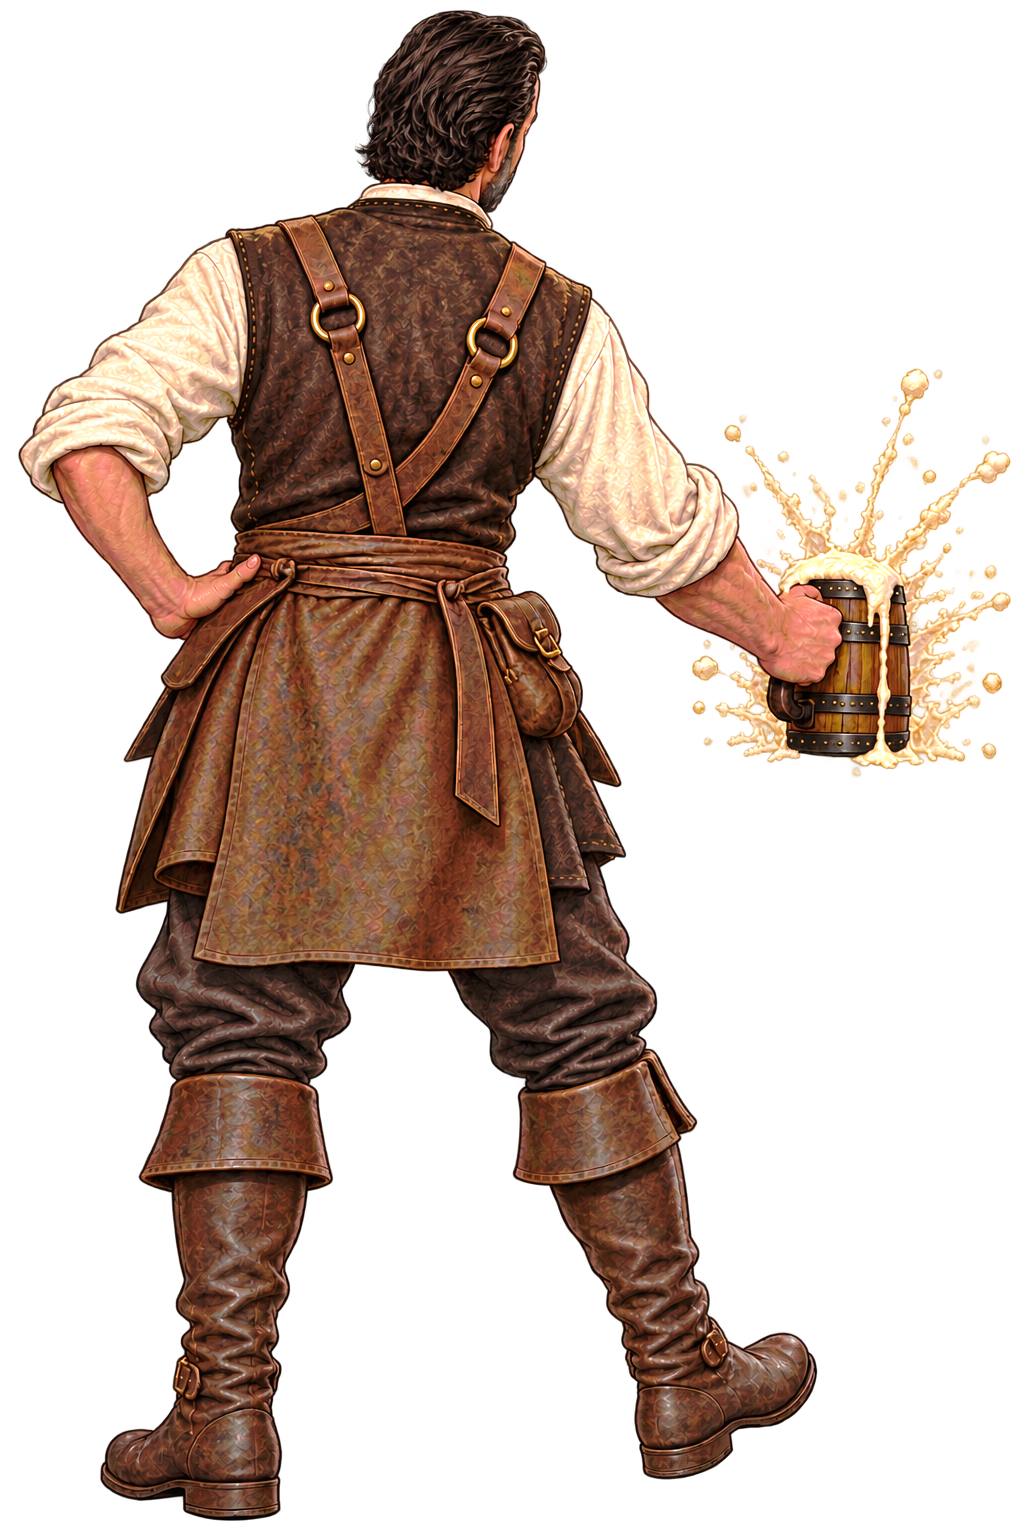
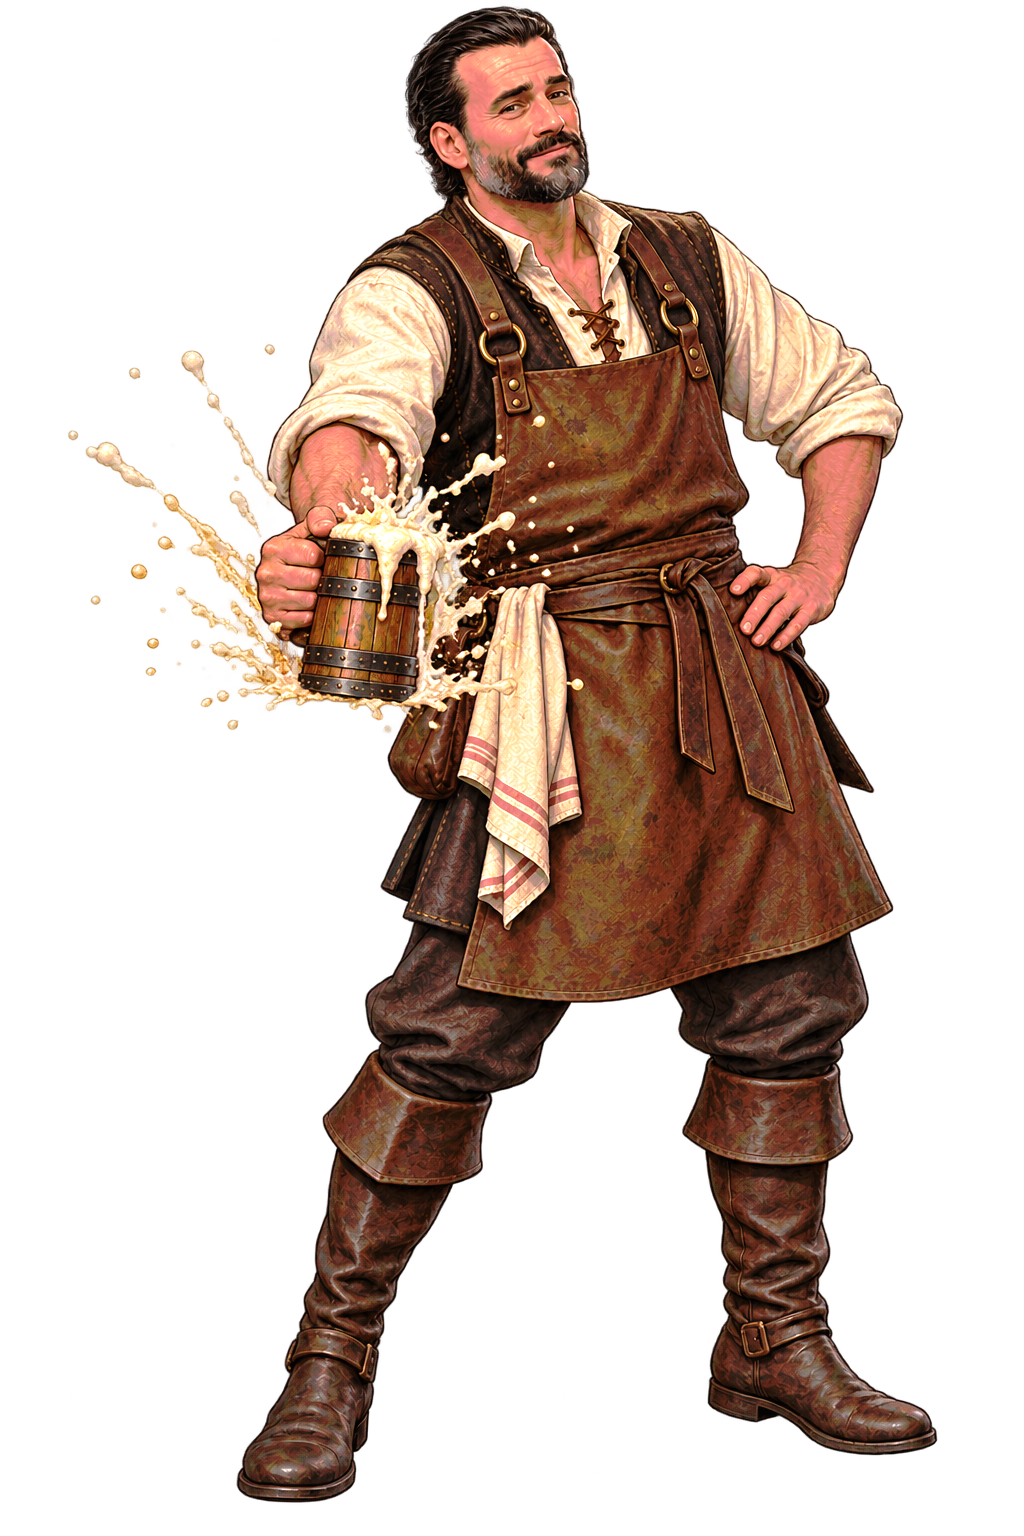
Add files via upload

diff --git a/index.html b/index.html
@@ -1,4 +1,4 @@
 <!doctype html>
 <html lang="de"><head><meta charset="utf-8"><meta name="viewport" content="width=device-width,initial-scale=1,viewport-fit=cover,user-scalable=no"><meta name="theme-color" content="#c9a56b"><title>Schauenburg – Die Burgschenke</title>
-<link rel="preload" as="image" href="assets/maps/terrasse.jpg" fetchpriority="high"><link rel="preload" as="audio" href="assets/audio/arrival-in-ashford.mp3"><link rel="preload" as="audio" href="assets/audio/Door Open Sound.mp3"><link rel="preload" as="image" href="assets/maps/wirtschaft-innen.jpg?v=18" fetchpriority="high"><link rel="preload" as="image" href="assets/npc/frau-run-1.png?v=02"><link rel="preload" as="image" href="assets/npc/frau-run-2.png?v=02"><link rel="preload" as="image" href="assets/npc/baer-run-1.png?v=22"><link rel="preload" as="image" href="assets/npc/baer-run-2.png?v=22"><link rel="preload" as="image" href="assets/npc/baer-run-3.png?v=22"><link rel="preload" as="audio" href="assets/audio/girlyscream_01.mp3"><link rel="preload" as="audio" href="assets/audio/bearattack_1.mp3"><link rel="preload" as="audio" href="assets/audio/bearattack_2.mp3"><link rel="preload" as="audio" href="assets/audio/bearattack_3.mp3"><link rel="preload" as="audio" href="assets/audio/The Hold Steady - The Bear and the Maiden Fair.mp3"><link rel="preload" as="audio" href="assets/audio/Der Bock geht um.mp3"><link rel="preload" as="audio" href="assets/audio/bock-departure.mp3"><link rel="preload" as="audio" href="assets/audio/bock-drink.mp3"><link rel="preload" as="audio" href="assets/audio/bock-burp.mp3"><link rel="preload" as="image" href="assets/npc/bock-reiter-1.png?v=28"><link rel="preload" as="image" href="assets/npc/bock-reiter-2.png?v=28"><link rel="preload" as="image" href="assets/npc/bock-reiter-3.png?v=28"><link rel="preload" as="image" href="assets/npc/bock-stop.png?v=30"><link rel="preload" as="image" href="assets/npc/bock-dismount.png?v=30"><link rel="preload" as="image" href="assets/npc/bock-final.png?v=30"><link rel="preload" as="image" href="assets/npc/bock-wunsch.png?v=38"><link rel="preload" as="image" href="assets/npc/bock-bier.png?v=38"><link rel="preload" as="image" href="assets/npc/bock-trinkt.png?v=38"><link rel="preload" as="image" href="assets/npc/bock-krug-leer.png?v=38"><link rel="preload" as="image" href="assets/player/tisch-w.png?v=46"><link rel="preload" as="image" href="assets/player/tisch-s.png?v=46"><link rel="preload" as="image" href="assets/player/tisch-d.png?v=46"><link rel="preload" as="image" href="assets/player/tisch-a.png?v=46"><link rel="stylesheet" href="style.css?v=12"></head>
-<body><main id="game" aria-label="Schauenburg – Die Burgschenke"><div id="world"><img id="map" src="assets/maps/terrasse.jpg" alt="Terrasse der Burgschenke" draggable="false"><img class="prop no-collision" id="baum" src="assets/props/baum.png?v=03" alt="" draggable="false"><img class="prop collidable" id="wirtschaft" src="assets/props/wirtschaft.png?v=03" alt="" draggable="false" data-collision="alpha"><img class="prop collidable" id="stehtischLinks" src="assets/props/stehtisch.png?v=03" alt="" draggable="false" data-collision="alpha"><img class="prop collidable" id="stehtischMitte" src="assets/props/stehtisch.png?v=03" alt="" draggable="false" data-collision="alpha"><img class="prop collidable" id="stehtischRechts" src="assets/props/stehtisch.png?v=03" alt="" draggable="false" data-collision="alpha"><img class="prop collidable" id="stuhl" src="assets/props/stuhl.png?v=03" alt="" draggable="false" data-collision="alpha"><img class="prop collidable" id="tafel" src="assets/props/tafel.png?v=03" alt="" draggable="false" data-collision="alpha"><img id="player" src="assets/player/front-1.png?v=12" alt="" draggable="false"></div><audio id="bgMusic" src="assets/audio/arrival-in-ashford.mp3" preload="auto" loop></audio><div id="loading">DIE BURGSCHENKE WIRD GEÖFFNET …</div><div id="zoomHint" aria-hidden="true">MAUSRAD · 2 ZOOMSTUFEN</div><div id="irisTransition" aria-hidden="true"></div></main><script src="game.js?v=46"></script></body></html>
+<link rel="preload" as="image" href="assets/maps/terrasse.jpg" fetchpriority="high"><link rel="preload" as="audio" href="assets/audio/arrival-in-ashford.mp3"><link rel="preload" as="audio" href="assets/audio/Door Open Sound.mp3"><link rel="preload" as="image" href="assets/maps/wirtschaft-innen.jpg?v=18" fetchpriority="high"><link rel="preload" as="image" href="assets/npc/frau-run-1.png?v=02"><link rel="preload" as="image" href="assets/npc/frau-run-2.png?v=02"><link rel="preload" as="image" href="assets/npc/baer-run-1.png?v=22"><link rel="preload" as="image" href="assets/npc/baer-run-2.png?v=22"><link rel="preload" as="image" href="assets/npc/baer-run-3.png?v=22"><link rel="preload" as="audio" href="assets/audio/girlyscream_01.mp3"><link rel="preload" as="audio" href="assets/audio/bearattack_1.mp3"><link rel="preload" as="audio" href="assets/audio/bearattack_2.mp3"><link rel="preload" as="audio" href="assets/audio/bearattack_3.mp3"><link rel="preload" as="audio" href="assets/audio/The Hold Steady - The Bear and the Maiden Fair.mp3"><link rel="preload" as="audio" href="assets/audio/Der Bock geht um.mp3"><link rel="preload" as="audio" href="assets/audio/bock-departure.mp3"><link rel="preload" as="audio" href="assets/audio/bock-drink.mp3"><link rel="preload" as="audio" href="assets/audio/bock-burp.mp3"><link rel="preload" as="image" href="assets/npc/bock-reiter-1.png?v=28"><link rel="preload" as="image" href="assets/npc/bock-reiter-2.png?v=28"><link rel="preload" as="image" href="assets/npc/bock-reiter-3.png?v=28"><link rel="preload" as="image" href="assets/npc/bock-stop.png?v=30"><link rel="preload" as="image" href="assets/npc/bock-dismount.png?v=30"><link rel="preload" as="image" href="assets/npc/bock-final.png?v=30"><link rel="preload" as="image" href="assets/npc/bock-wunsch.png?v=38"><link rel="preload" as="image" href="assets/npc/bock-bier.png?v=38"><link rel="preload" as="image" href="assets/npc/bock-trinkt.png?v=38"><link rel="preload" as="image" href="assets/npc/bock-krug-leer.png?v=38"><link rel="preload" as="image" href="assets/player/tisch-w.png?v=47"><link rel="preload" as="image" href="assets/player/tisch-s.png?v=47"><link rel="preload" as="image" href="assets/player/tisch-d.png?v=46"><link rel="preload" as="image" href="assets/player/tisch-a.png?v=46"><link rel="stylesheet" href="style.css?v=12"></head>
+<body><main id="game" aria-label="Schauenburg – Die Burgschenke"><div id="world"><img id="map" src="assets/maps/terrasse.jpg" alt="Terrasse der Burgschenke" draggable="false"><img class="prop no-collision" id="baum" src="assets/props/baum.png?v=03" alt="" draggable="false"><img class="prop collidable" id="wirtschaft" src="assets/props/wirtschaft.png?v=03" alt="" draggable="false" data-collision="alpha"><img class="prop collidable" id="stehtischLinks" src="assets/props/stehtisch.png?v=03" alt="" draggable="false" data-collision="alpha"><img class="prop collidable" id="stehtischMitte" src="assets/props/stehtisch.png?v=03" alt="" draggable="false" data-collision="alpha"><img class="prop collidable" id="stehtischRechts" src="assets/props/stehtisch.png?v=03" alt="" draggable="false" data-collision="alpha"><img class="prop collidable" id="stuhl" src="assets/props/stuhl.png?v=03" alt="" draggable="false" data-collision="alpha"><img class="prop collidable" id="tafel" src="assets/props/tafel.png?v=03" alt="" draggable="false" data-collision="alpha"><img id="player" src="assets/player/front-1.png?v=12" alt="" draggable="false"></div><audio id="bgMusic" src="assets/audio/arrival-in-ashford.mp3" preload="auto" loop></audio><div id="loading">DIE BURGSCHENKE WIRD GEÖFFNET …</div><div id="zoomHint" aria-hidden="true">MAUSRAD · 2 ZOOMSTUFEN</div><div id="irisTransition" aria-hidden="true"></div></main><script src="game.js?v=47"></script></body></html>

diff --git a/game.js b/game.js
@@ -1369,7 +1369,7 @@ function setPlayerDirection(direction){
    Wirtschaft bleibt obere 1/2 Effektzone. */
 const STANDING_TABLE_IDS=new Set(['stehtischLinks','stehtischMitte','stehtischRechts']);
 const TOP_PASSAGE_IDS=new Set(['stuhl','tafel']);
-const TABLE_PASSAGE_EXTRA_WORLD=16;
+const TABLE_PASSAGE_EXTRA_WORLD=24; // v47: Stehtisch-Effekt +0,5 cm (=8 Weltpixel) weiter nach unten
 const TAFEL_PASSAGE_EXTRA_WORLD=40; // v35 24 + 16
 const CHAIR_PASSAGE_EXTRA_WORLD=56; // v35 24 + 32
 const TREE_PASSAGE_EXTRA_WORLD=48;  // +3 cm gegenüber v35
@@ -1490,8 +1490,8 @@ const map1TableMugs=new Map();
 const MAP1_TABLE_ACTION_MS=1000;
 const MAP1_TABLE_TOUCH=8;
 const MAP1_TABLE_ACTION_SPRITES={
-  back:'assets/player/tisch-w.png?v=46',
-  front:'assets/player/tisch-s.png?v=46',
+  back:'assets/player/tisch-w.png?v=47', // W = Anhang 1
+  front:'assets/player/tisch-s.png?v=47', // S = Anhang 2
   right:'assets/player/tisch-d.png?v=46',
   left:'assets/player/tisch-a.png?v=46'
 };
@@ -1510,24 +1510,26 @@ function tableTouchesInFacingDirection(s,dir){
   if(!w||!h)return false;
   const right=left+w,bottom=top+h;
   const r=PLAYER.radius;
-  // Direkter Kontakt zur echten Tischbox. Dadurch sind A/D zuverlässig erreichbar und
-  // der Trigger bleibt trotzdem nur aktiv, wenn der Wirt wirklich GANZ am Tisch steht.
   const gap=10;
-  if(dir==='front'){ // oberhalb, Blick nach unten / S
+  const downExtra=8;       // v47: +0,5 cm nach unten
+  const sideTopCut=64;     // v47: A/D oben um 4 cm kürzer
+  const sideOuterExtra=32; // v47: A links weiter nach links / D rechts weiter nach rechts
+
+  if(dir==='front'){ // OBERHALB des Tischs + S: an obere Kante andocken -> auslösbar
     return PLAYER.x>=left-r && PLAYER.x<=right+r &&
-           PLAYER.y<=top && top-PLAYER.y<=r+gap;
+           PLAYER.y<=top+downExtra && top-PLAYER.y<=r+gap;
   }
-  if(dir==='back'){ // unterhalb, Blick nach oben / W
+  if(dir==='back'){ // UNTERHALB + W
     return PLAYER.x>=left-r && PLAYER.x<=right+r &&
-           PLAYER.y>=bottom && PLAYER.y-bottom<=r+gap;
+           PLAYER.y>=bottom && PLAYER.y-bottom<=r+gap+downExtra;
   }
-  if(dir==='right'){ // links vom Tisch, Blick nach rechts / D
-    return PLAYER.y>=top-r && PLAYER.y<=bottom+r &&
-           PLAYER.x<=left && left-PLAYER.x<=r+gap;
+  if(dir==='right'){ // LINKS vom Tisch + D; bis Tischmitte/etwas darüber erreichbar
+    return PLAYER.y>=top-r+sideTopCut && PLAYER.y<=bottom+r+downExtra &&
+           PLAYER.x<=left+sideOuterExtra && left-PLAYER.x<=r+gap+sideOuterExtra;
   }
-  if(dir==='left'){ // rechts vom Tisch, Blick nach links / A
-    return PLAYER.y>=top-r && PLAYER.y<=bottom+r &&
-           PLAYER.x>=right && PLAYER.x-right<=r+gap;
+  if(dir==='left'){ // RECHTS vom Tisch + A; bis Tischmitte/etwas darüber erreichbar
+    return PLAYER.y>=top-r+sideTopCut && PLAYER.y<=bottom+r+downExtra &&
+           PLAYER.x>=right-sideOuterExtra && PLAYER.x-right<=r+gap+sideOuterExtra;
   }
   return false;
 }
@@ -1574,6 +1576,7 @@ function startMap1TableServe(){
   const dir=PLAYER.direction;
   const src=MAP1_TABLE_ACTION_SPRITES[dir];
   player.setAttribute('src',src);
+  player.style.zIndex='1300'; // v47: Ausschankfigur IMMER vor dem Bierkrug (Krug=1200)
   const scale=playerVisualScale();
   // A ist als eigenes, physisch gespiegeltes D-Asset enthalten; deshalb hier keine zweite Spiegelung.
   player.style.transform=`translate(-50%,-100%) scale(${scale})`;
@@ -1583,6 +1586,7 @@ function startMap1TableServe(){
     map1TableServing=false;
     PLAYER.sequenceIndex=0; PLAYER.frameClock=0; PLAYER.frame=PLAYER_SEQUENCES[PLAYER.direction][0];
     showPlayerFrame(true);
+    updateStandingTableDepth();
     updateMap1TableInteractionCue();
   },MAP1_TABLE_ACTION_MS);
   return true;
@@ -2012,7 +2016,7 @@ const PLAYER_FRAME_PATHS = [
   'assets/player/back-3.png','assets/player/back-4.png',
   'assets/player/side-1.png?v=12','assets/player/side-2.png?v=12',
   'assets/player/side-3.png?v=12','assets/player/side-4.png?v=12',
-  'assets/player/tisch-w.png?v=46','assets/player/tisch-s.png?v=46',
+  'assets/player/tisch-w.png?v=47','assets/player/tisch-s.png?v=47',
   'assets/player/tisch-d.png?v=46','assets/player/tisch-a.png?v=46'
 ];
 async function preloadMap1BearFrames(){
